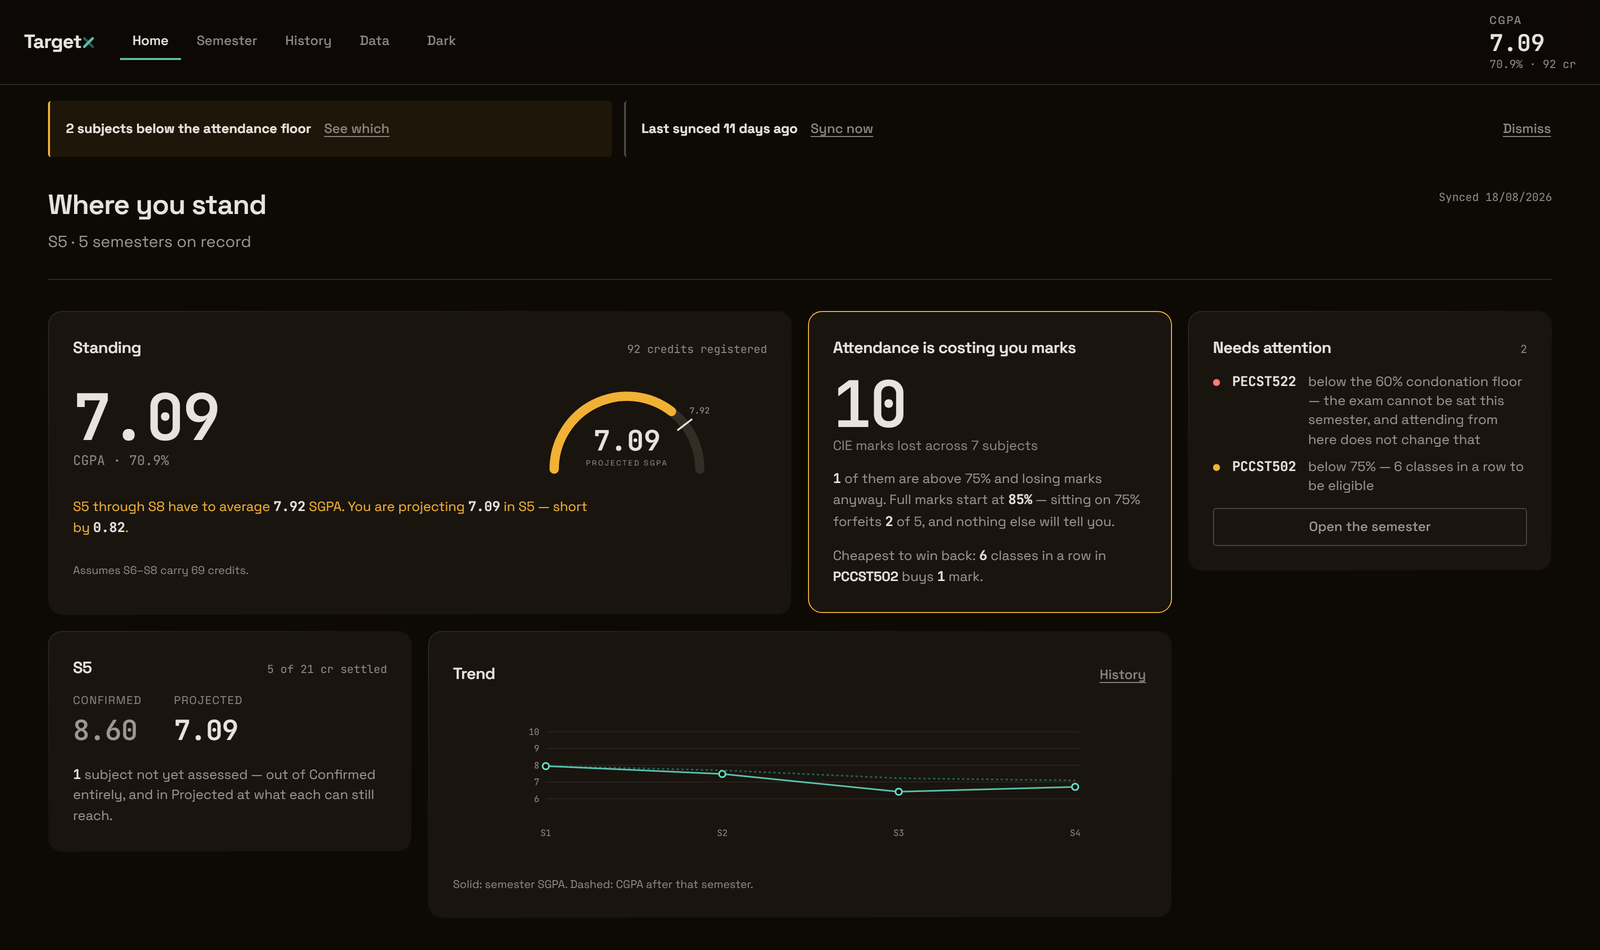
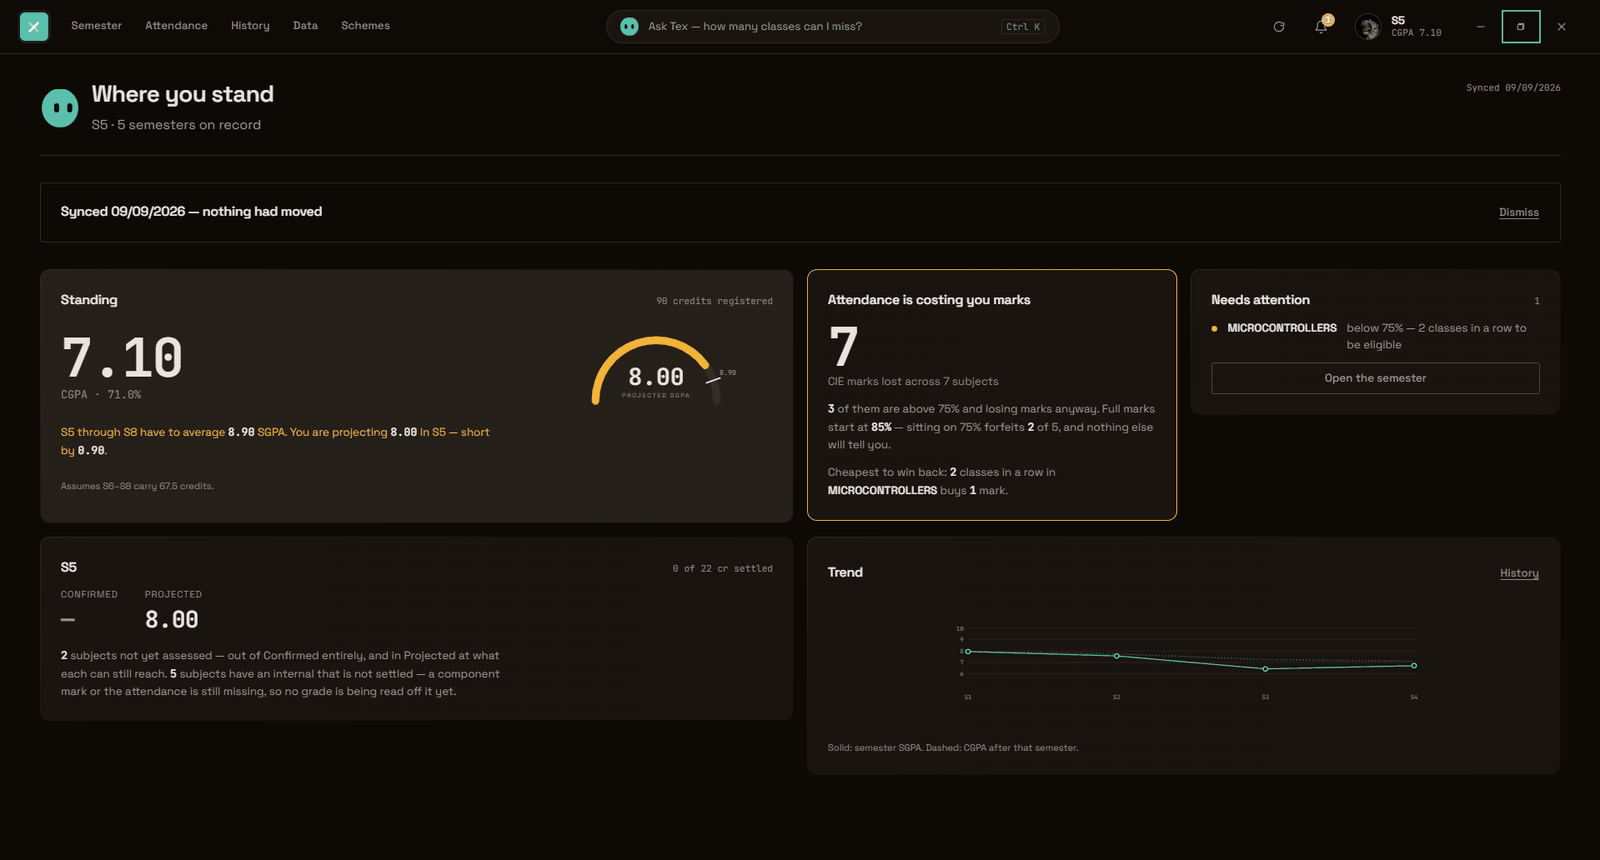
Show the app as it is now, and the phone build without promising it
The screenshot on both pages was from 0.1.0 - no Tex, no Schemes tab, and a
figure caption quoting numbers the app no longer produces. A stale screenshot
is not cosmetic: it is the first evidence a stranger has that the thing is
maintained, and it was three releases behind.

Both images are quantised to a 256-colour palette, which the UI survives
because it is flat dark surfaces and two accents: home.png 250KB -> 91KB,
home-phone.png 321KB -> 145KB. Alt text now describes what is actually in the
frame, and the declared height matches the file (1600x860, was 950) so the
layout does not shift as it loads.

The phone shot is the awkward one. There is an Android build and it works, and
there is no APK in any release - so a phone on a download page is a claim the
Downloads table cannot honour. It is captioned to say so in the same breath:
not released yet, here is what you can install today. The alternative was to
leave it out, but it is the honest state of the project and someone who sees it
in a WhatsApp group deserves to find it on the site rather than wonder.

Laid out beside its note rather than stacked under the desktop frame, because
two screenshots of one screen stacked read as the page repeating itself, and
capped at 18rem so the unreleased build does not visually outrank the shipped
one. Collapses to one column at 52rem, the same breakpoint the feature grid
uses. Checked at 1440, 768 and 390 in both themes.
[…]

diff --git a/docs/index.html b/docs/index.html
@@ -294,13 +294,27 @@
         </div>
 
         <figure class="shot">
-          <img src="home.png" width="1600" height="950" loading="lazy" decoding="async"
-               alt="The TargetX home screen: a CGPA of 7.09, a tile reading “Attendance is costing you marks — 10 CIE marks lost across 7 subjects”, and a list of subjects needing attention.">
+          <img src="home.png" width="1600" height="860" loading="lazy" decoding="async"
+               alt="The TargetX home screen: a CGPA of 7.10, a tile reading “Attendance is costing you marks — 7 CIE marks lost across 7 subjects”, and one subject flagged as below 75%.">
           <figcaption class="shot-cap">
             The home screen. The middle tile is the one no other tool draws —
             marks already forfeited, and the cheapest way to win one back.
           </figcaption>
         </figure>
+
+        <div class="shot-pair">
+          <figure class="shot-phone">
+            <img src="home-phone.png" width="750" height="1600" loading="lazy" decoding="async"
+                 alt="The same home screen on an Android phone: an Ask Tex bar at the top, the standing card reading 7.09 CGPA with a projected SGPA gauge, and the attendance tile beginning below it.">
+          </figure>
+          <p class="shot-note">
+            The same record on a phone, same engine underneath — one arithmetic,
+            not a cut-down second version of it.
+            <strong>The Android build is not released yet.</strong> What you can
+            install today is in the table below: Windows, macOS and Linux. This
+            is here so you know what is coming, not to suggest you can have it.
+          </p>
+        </div>
       </div>
     </div>
   </section>

diff --git a/docs/site.css b/docs/site.css
@@ -522,6 +522,34 @@ p { margin: 0; }
   line-height: 1.6;
 }
 
+/* The phone shot sits beside its own note rather than under the desktop one:
+   stacked, two screenshots of the same screen read as the page repeating
+   itself. Capped at 18rem because a phone rendered as tall as the desktop
+   frame claims to be the main event, and it is not - it is not even released
+   yet. Collapses to one column at the same 52rem the feature grid does. */
+.shot-pair {
+  display: grid;
+  grid-template-columns: minmax(0, 18rem) minmax(0, 1fr);
+  gap: var(--s5);
+  align-items: center;
+  margin-top: var(--s5);
+  max-width: 1600px;
+}
+.shot-phone {
+  border: 1px solid var(--hairline);
+  border-radius: var(--radius-lg);
+  overflow: hidden;
+  background: var(--surface-1);
+  line-height: 0;
+  margin: 0;
+}
+.shot-phone img { width: 100%; height: auto; display: block; }
+.shot-note { color: var(--text-dim); font-size: 0.96rem; max-width: 46ch; }
+@media (max-width: 52rem) {
+  .shot-pair { grid-template-columns: minmax(0, 1fr); }
+  .shot-phone { max-width: 18rem; }
+}
+
 /* --- downloads ---------------------------------------------------------- */
 .dl-primary {
   max-width: 84rem;

diff --git a/README.md b/README.md
@@ -52,7 +52,11 @@ thing. The numbers, and the person who sent them.
 
 ---
 
-![The TargetX home screen: a CGPA of 7.09, a tile reading "Attendance is costing you marks - 10 CIE marks lost across 7 subjects", and the subjects that need attention](docs/home.png)
+![The TargetX home screen: a CGPA of 7.10, a tile reading "Attendance is costing you marks - 7 CIE marks lost across 7 subjects", and one subject flagged as below 75%](docs/home.png)
+
+<img src="docs/home-phone.png" alt="The same home screen on an Android phone: Ask Tex at the top, the standing card reading 7.09 CGPA with a projected SGPA gauge, and the attendance tile below it" width="300">
+
+*The same record on a phone. The Android build is not in the releases yet — everything you can install today is Windows, macOS and Linux.*
 
 ---
 
